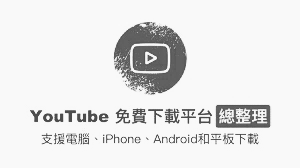
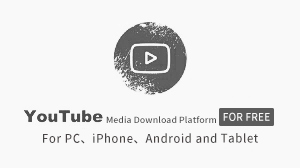
change the mp3 image

Changed region(s): [[0.06, 0.625, 0.93, 0.8631]]

diff --git a/index.html b/index.html
@@ -106,7 +106,7 @@
     </div>
     <div id="content">
         <a href="">
-            <img id="logo" src="./images/mp3.png" alt>
+            <img id="logo" src="./images/mp3-zh.png" alt>
         </a>
         <div id="converter_wrapper">
             <div id="converter">
